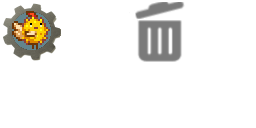
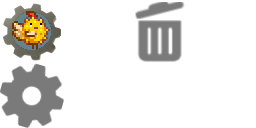
Create edit button

Changed region(s): [[0.0, 0.5, 0.25, 1.0]]

diff --git a/main.py b/main.py
@@ -21,6 +21,7 @@ class Profile:
         self.right_frame.pack_propagate(False)
         self.prof_title = tk.CTkLabel(self.left_frame, text=self.name, fg_color="gray21", text_font=("Arial", 12), anchor='w')
         self.prof_button = Button(self.right_frame, text="\U000025B6", fg_color="gray21", text_font=("Arial", 24), text_color='white', hover_color='gray21', width=40)
+        self.prof_edit = Button(self.right_frame, text="\U00002699", fg_color="gray21", text_font=("Arial", 11), text_color='white', hover_color='gray21', width=40)
         self.prof_delete = Button(self.right_frame, width=40, image=window.icons.trash_closed, height=40, type='button', hover_image=window.icons.trash_opened)
         self.prof_button.configure(command=self.select_profile)
         self.prof_delete.configure(command=self.delete_profile)
@@ -34,10 +35,11 @@ class Profile:
         profile_number += 1
         self.prof_frame.pack(pady=2)
         self.left_frame.pack(side='left', padx=(10, 0))
-        self.right_frame.pack(side='right')
         self.prof_title.pack(side=tk.LEFT, padx=(20, 10))
         self.prof_button.pack(side=tk.RIGHT, padx=(2, 4))
+        self.prof_edit.pack(side=tk.RIGHT, padx=(2, 0))
         self.prof_delete.pack(side=tk.RIGHT)
+        self.right_frame.pack(side='right')
         if 'warning_label' in globals(): warning_label.pack_forget()
 
     def select_profile(self):

diff --git a/README.md b/README.md
@@ -25,6 +25,9 @@ Once that is done, you can repeat the process for as many different profiles as 
 ## Restrictions
 - The profile manager will only work on Windows (confirmed on Windows 10 only) and will likely never come to other operating systems
 
+## Attibutions
+<a href="https://www.flaticon.com/free-icons/gear" title="gear icons">Gear icons created by Freepik - Flaticon</a>
+
 ## Modifying the program
 The external packages for this program are [CustomTkinter](https://github.com/TomSchimansky/CustomTkinter), which can be installed with:<br>
 `pip install customtkinter`</br>
